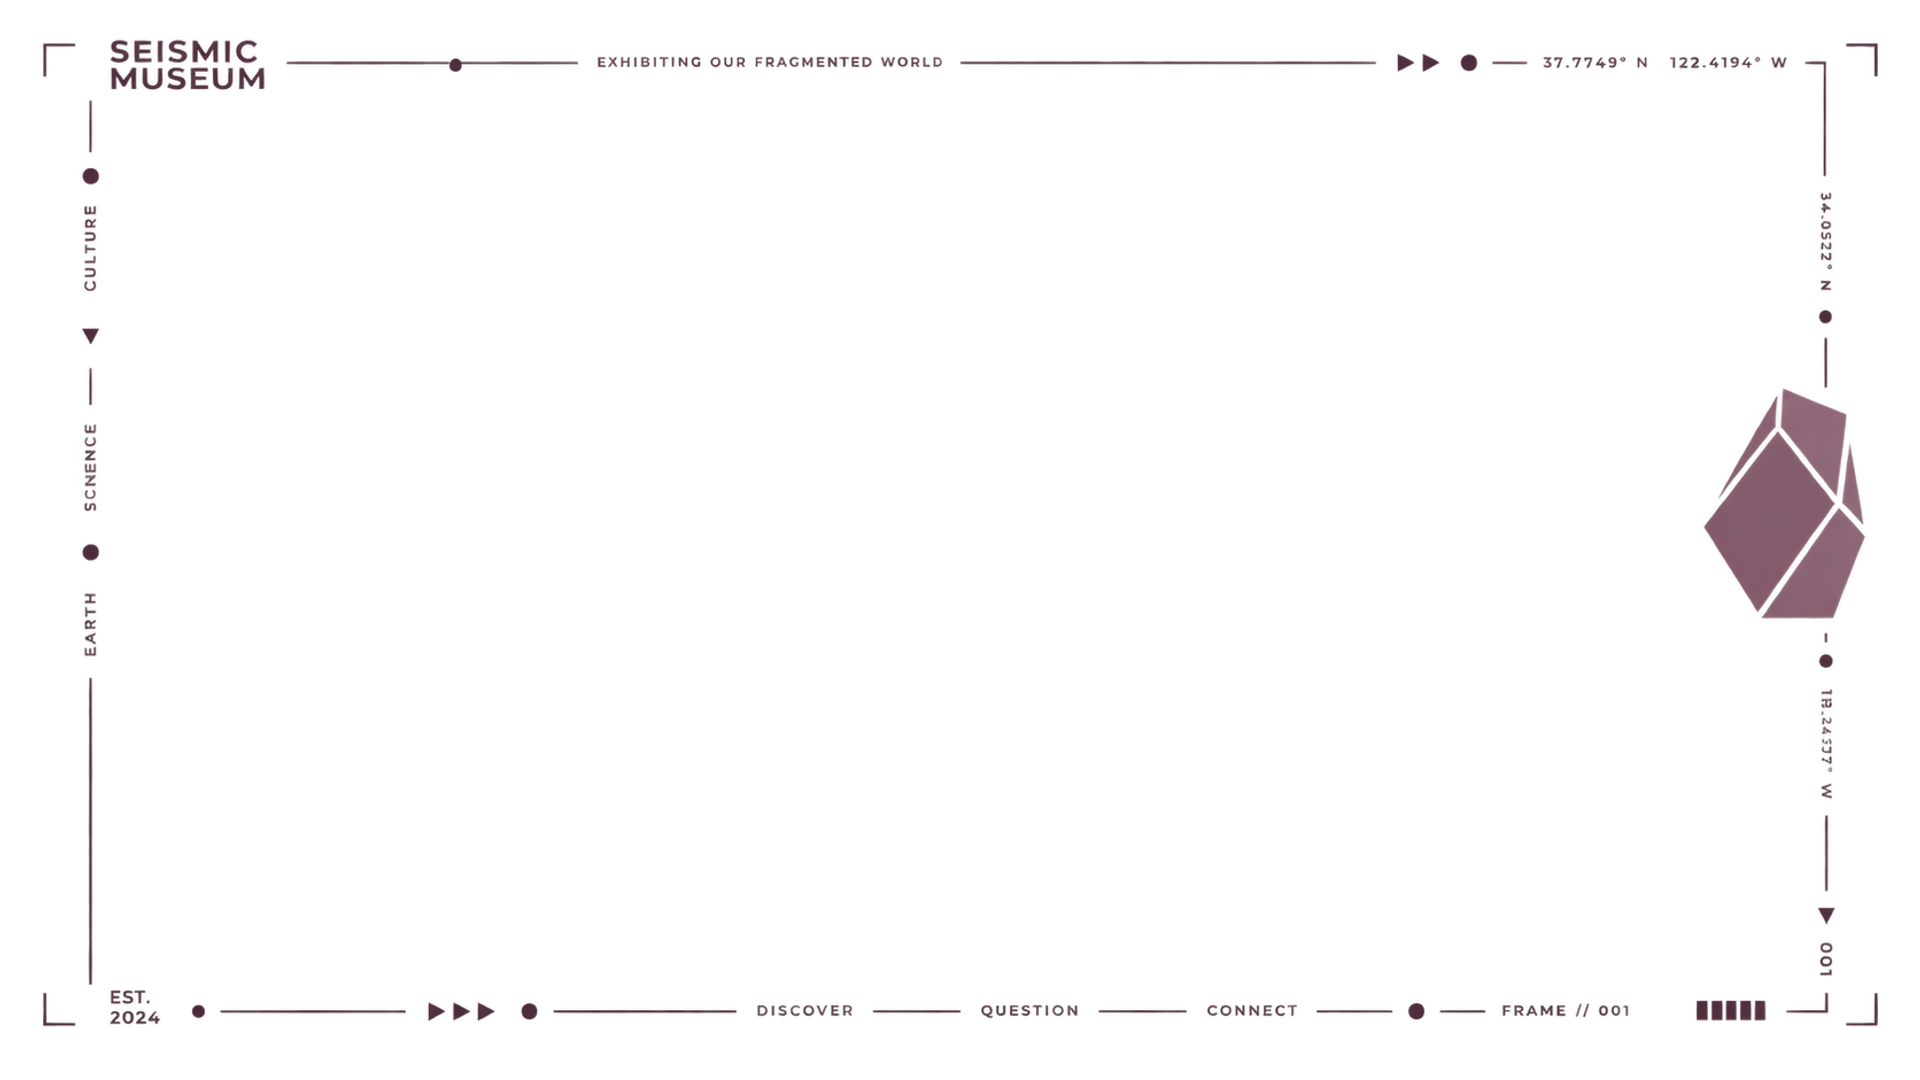
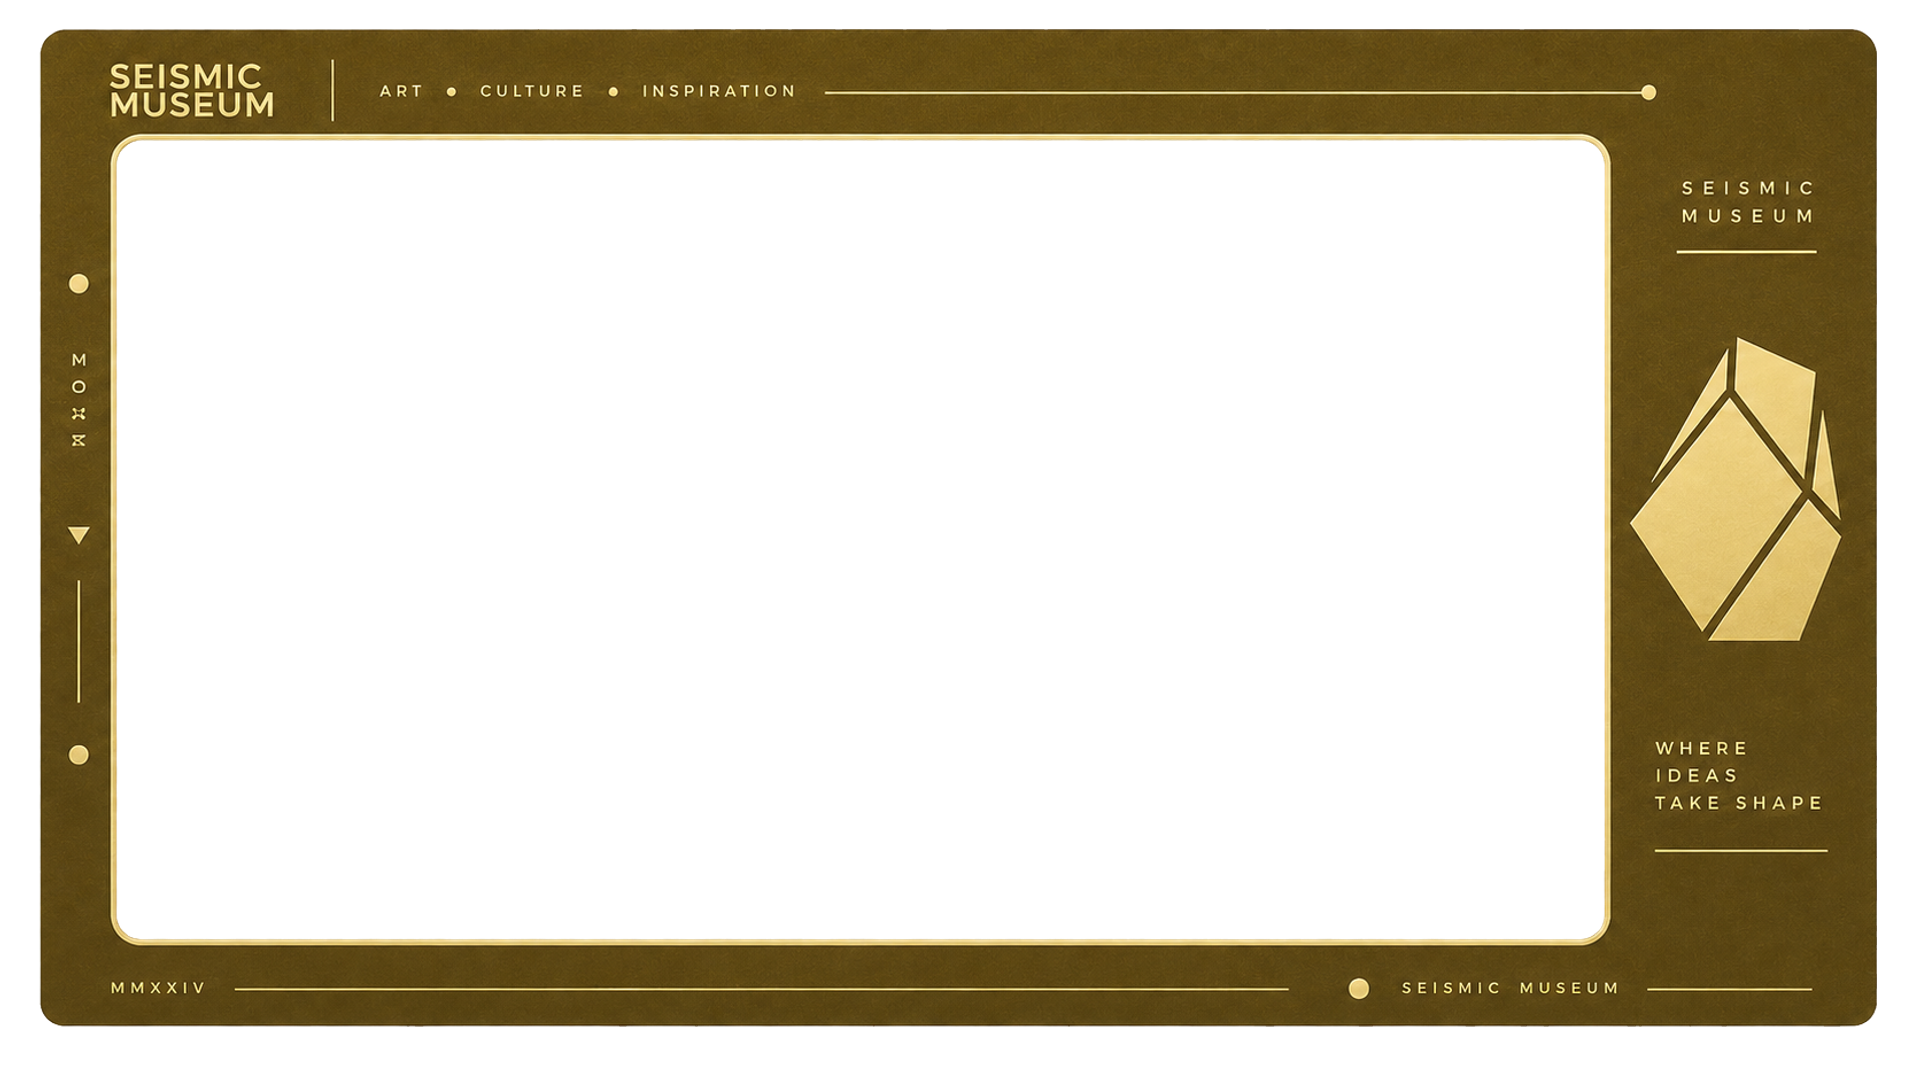
feat: replace screenshot overlay templates with new designs
Swap the five 1920x1080 screenshot overlay templates for new artwork,
keeping the existing template-1..5.png filenames so persisted
screenshot metadata (the `template` field validated against
/^template-[1-5]$/) and random-selection logic are unaffected.

Source art was supplied at 1672x941 and normalized to exactly
1920x1080 via Lanczos3 resampling (the aspect-ratio delta is ~0.06%,
imperceptible at full frame) -- see content-src/seismic-stone/ for the
untouched originals.

Adds a dedicated e2e test that forces each of the 5 templates in turn
(via a Math.random stub) and verifies each individually composites
into a correctly-sized, correctly-aligned 1920x1080 artwork, rather
than relying only on the existing randomized-selection test to
statistically cover all 5.

diff --git a/e2e/marzipano-tour.spec.ts b/e2e/marzipano-tour.spec.ts
@@ -319,6 +319,59 @@ test('capturing a screenshot always produces a 1920x1080 artwork with the select
   expect(result.opaquePixelMatches).toBe(true);
 });
 
+test('every one of the 5 templates individually composites into a valid 1920x1080 artwork', async ({
+  page,
+}) => {
+  // The randomized-selection test below proves Math.random() drives the
+  // pick, but relying on random draws to eventually cover all 5 templates
+  // is not a real guarantee every template file is valid -- a single
+  // corrupt/undecodable template could hide behind the other 4 still
+  // getting picked often enough. This test forces each template id in
+  // turn (by stubbing Math.random so pickRandomTemplateId's
+  // `Math.floor(Math.random() * 5) + 1` lands deterministically) and
+  // verifies each one individually produces a correctly-sized,
+  // correctly-aligned composite.
+  const randomStubForId: Record<number, number> = { 1: 0, 2: 0.21, 3: 0.41, 4: 0.61, 5: 0.81 };
+
+  for (const id of [1, 2, 3, 4, 5]) {
+    await page.addInitScript((stub: number) => {
+      Math.random = () => stub;
+    }, randomStubForId[id]);
+    await page.goto('/p/modern-museum');
+    await waitForViewer(page);
+
+    await page.locator('#screenshotButton').click();
+    await page.locator('#screenshotPreview.is-open').waitFor({ timeout: 15_000 });
+
+    const templateId = await page.locator('#screenshotPreview').getAttribute('data-template-id');
+    expect(
+      templateId,
+      `expected template-${String(id)} to be forced via the Math.random stub`,
+    ).toBe(String(id));
+
+    const previewSrc = await page.locator('#screenshotPreviewImage').getAttribute('src');
+    expect(previewSrc, `template-${String(id)} produced no preview image`).toBeTruthy();
+
+    const result = await compareCompositeToTemplate(
+      page,
+      previewSrc as string,
+      `/screenshot-templates/template-${String(id)}.png`,
+    );
+
+    expect(result.compositedWidth, `template-${String(id)} composite width`).toBe(1920);
+    expect(result.compositedHeight, `template-${String(id)} composite height`).toBe(1080);
+    expect(result.templateWidth, `template-${String(id)} source width`).toBe(1920);
+    expect(result.templateHeight, `template-${String(id)} source height`).toBe(1080);
+    expect(result.foundOpaquePixel, `template-${String(id)} has no opaque pixel to sample`).toBe(
+      true,
+    );
+    expect(
+      result.opaquePixelMatches,
+      `template-${String(id)} overlay is misaligned/stretched/cropped`,
+    ).toBe(true);
+  }
+});
+
 test('template selection is randomized across captures, not fixed to one template', async ({
   page,
 }) => {
